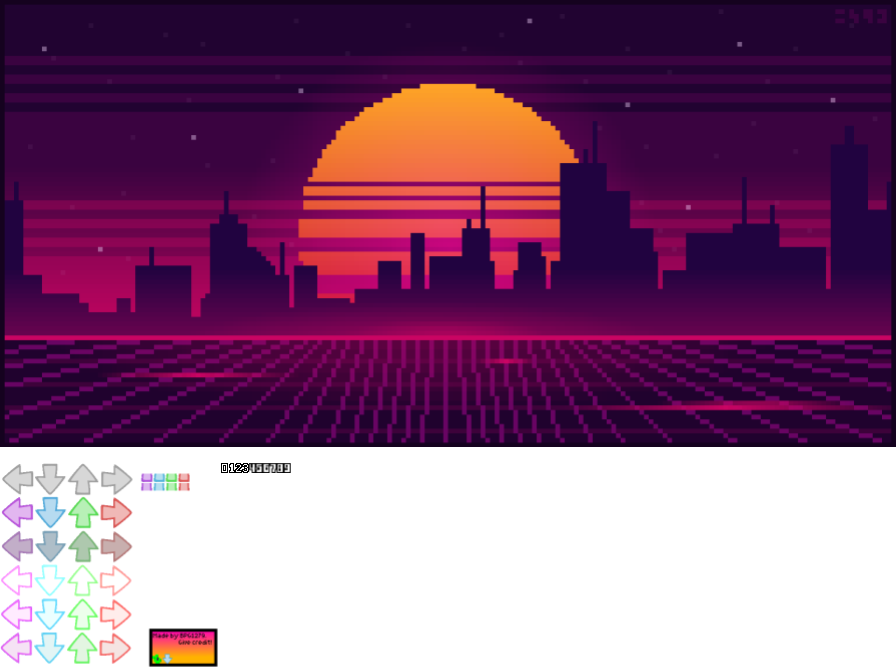
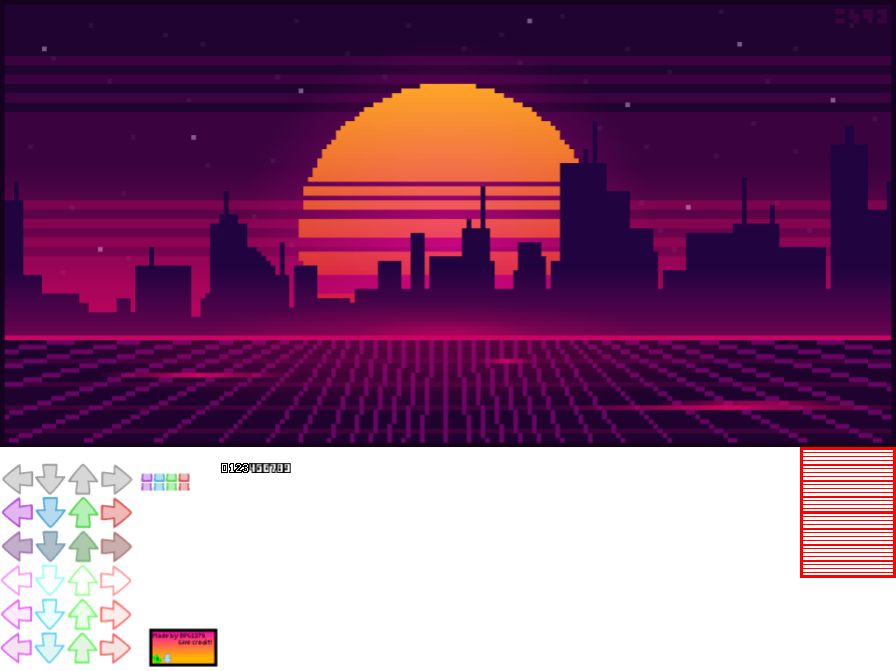
Removed duplicate arrows and added UI

Changed region(s): [[0.875, 0.6557, 1.0, 0.8644]]

diff --git a/core/editor/src/main.rs b/core/editor/src/main.rs
@@ -135,8 +135,18 @@ impl engine::Game for Game {
         uvs[0] = SheetRegion::new(0, 0, 0, 16, 880, 440);
         // TODO animation frame
         uvs[1] = SheetRegion::new(0, 16, 480, 8, 16, 16);
+        let (trfs, uvs) = engine.renderer.sprites.get_sprites_mut(0);
+        trfs[2] = AABB {
+            center: Vec2 {
+                x: 48.0,
+                y: 119.0,
+            },
+            size: Vec2 { x: 96.0, y: 131.0},
+        }
+        .into();
+        uvs[2] = SheetRegion::new(0, 800, 448, 8, 96, 131);
         // set apple
-        let mut apple_start = 1 + 1;
+        let mut apple_start = 3;
         for(target, (trf, uv)) in self.targets.iter().zip(
             trfs[apple_start..]
                 .iter_mut()
@@ -157,6 +167,7 @@ impl engine::Game for Game {
         }
         apple_start = apple_start + self.targets.len();
 
+        // Compacting this to counter a really oddly specific bug.
         let mut arrowset: Vec<ArrowData> = Vec::new();
         for arrow in self.arrows0.iter() {
             arrowset.push(*arrow);
@@ -178,7 +189,7 @@ impl engine::Game for Game {
         ) {
             *trf = AABB {
                 center: Vec2::new(arrow.start_pos.x - 88.0, arrow.start_pos.y),
-                size: Vec2 { x: 16.0, y: 16.0 },
+                size: Vec2 { x: 4.0, y: 4.0 },
             }
             .into();
             match arrow.arrow_dir {
@@ -222,25 +233,32 @@ impl engine::Game for Game {
 }
 
 fn spawn_arrow (game: &mut Game, dir: usize, mouse_y: f64) {
+    let mut arrow_y_val = ((mouse_y - 600.0) as f32).abs() * (240.0 / 600.0);
+    arrow_y_val = ((arrow_y_val) / 4.0).round() * 4.0;
+    println!("{}", arrow_y_val);
     let arrow = ArrowData {
-        start_pos: Vec2::new(dir as f32 * 24.0 + 100.0, ((mouse_y - 600.0) as f32).abs() * (240.0 / 600.0)),
+        start_pos: Vec2::new(dir as f32 * 24.0 + 100.0, arrow_y_val),
         time: 300,
         arrow_dir: dir,
     };
     match dir {
         0 => {
+            game.arrows0.retain(|i| i.start_pos.y as i32 != arrow_y_val as i32);
             game.arrows0.push(arrow);
             game.arrows0.sort_by_key(|a| a.start_pos.y as i32);
         }
         1 => {
+            game.arrows1.retain(|i| i.start_pos.y as i32 != arrow_y_val as i32);
             game.arrows1.push(arrow);
             game.arrows1.sort_by_key(|a| a.start_pos.y as i32);
         }
         2 => {
+            game.arrows2.retain(|i| i.start_pos.y as i32 != arrow_y_val as i32);
             game.arrows2.push(arrow);
             game.arrows2.sort_by_key(|a| a.start_pos.y as i32);
         }
         3 => {
+            game.arrows3.retain(|i| i.start_pos.y as i32 != arrow_y_val as i32);
             game.arrows3.push(arrow);
             game.arrows3.sort_by_key(|a| a.start_pos.y as i32);
         }
